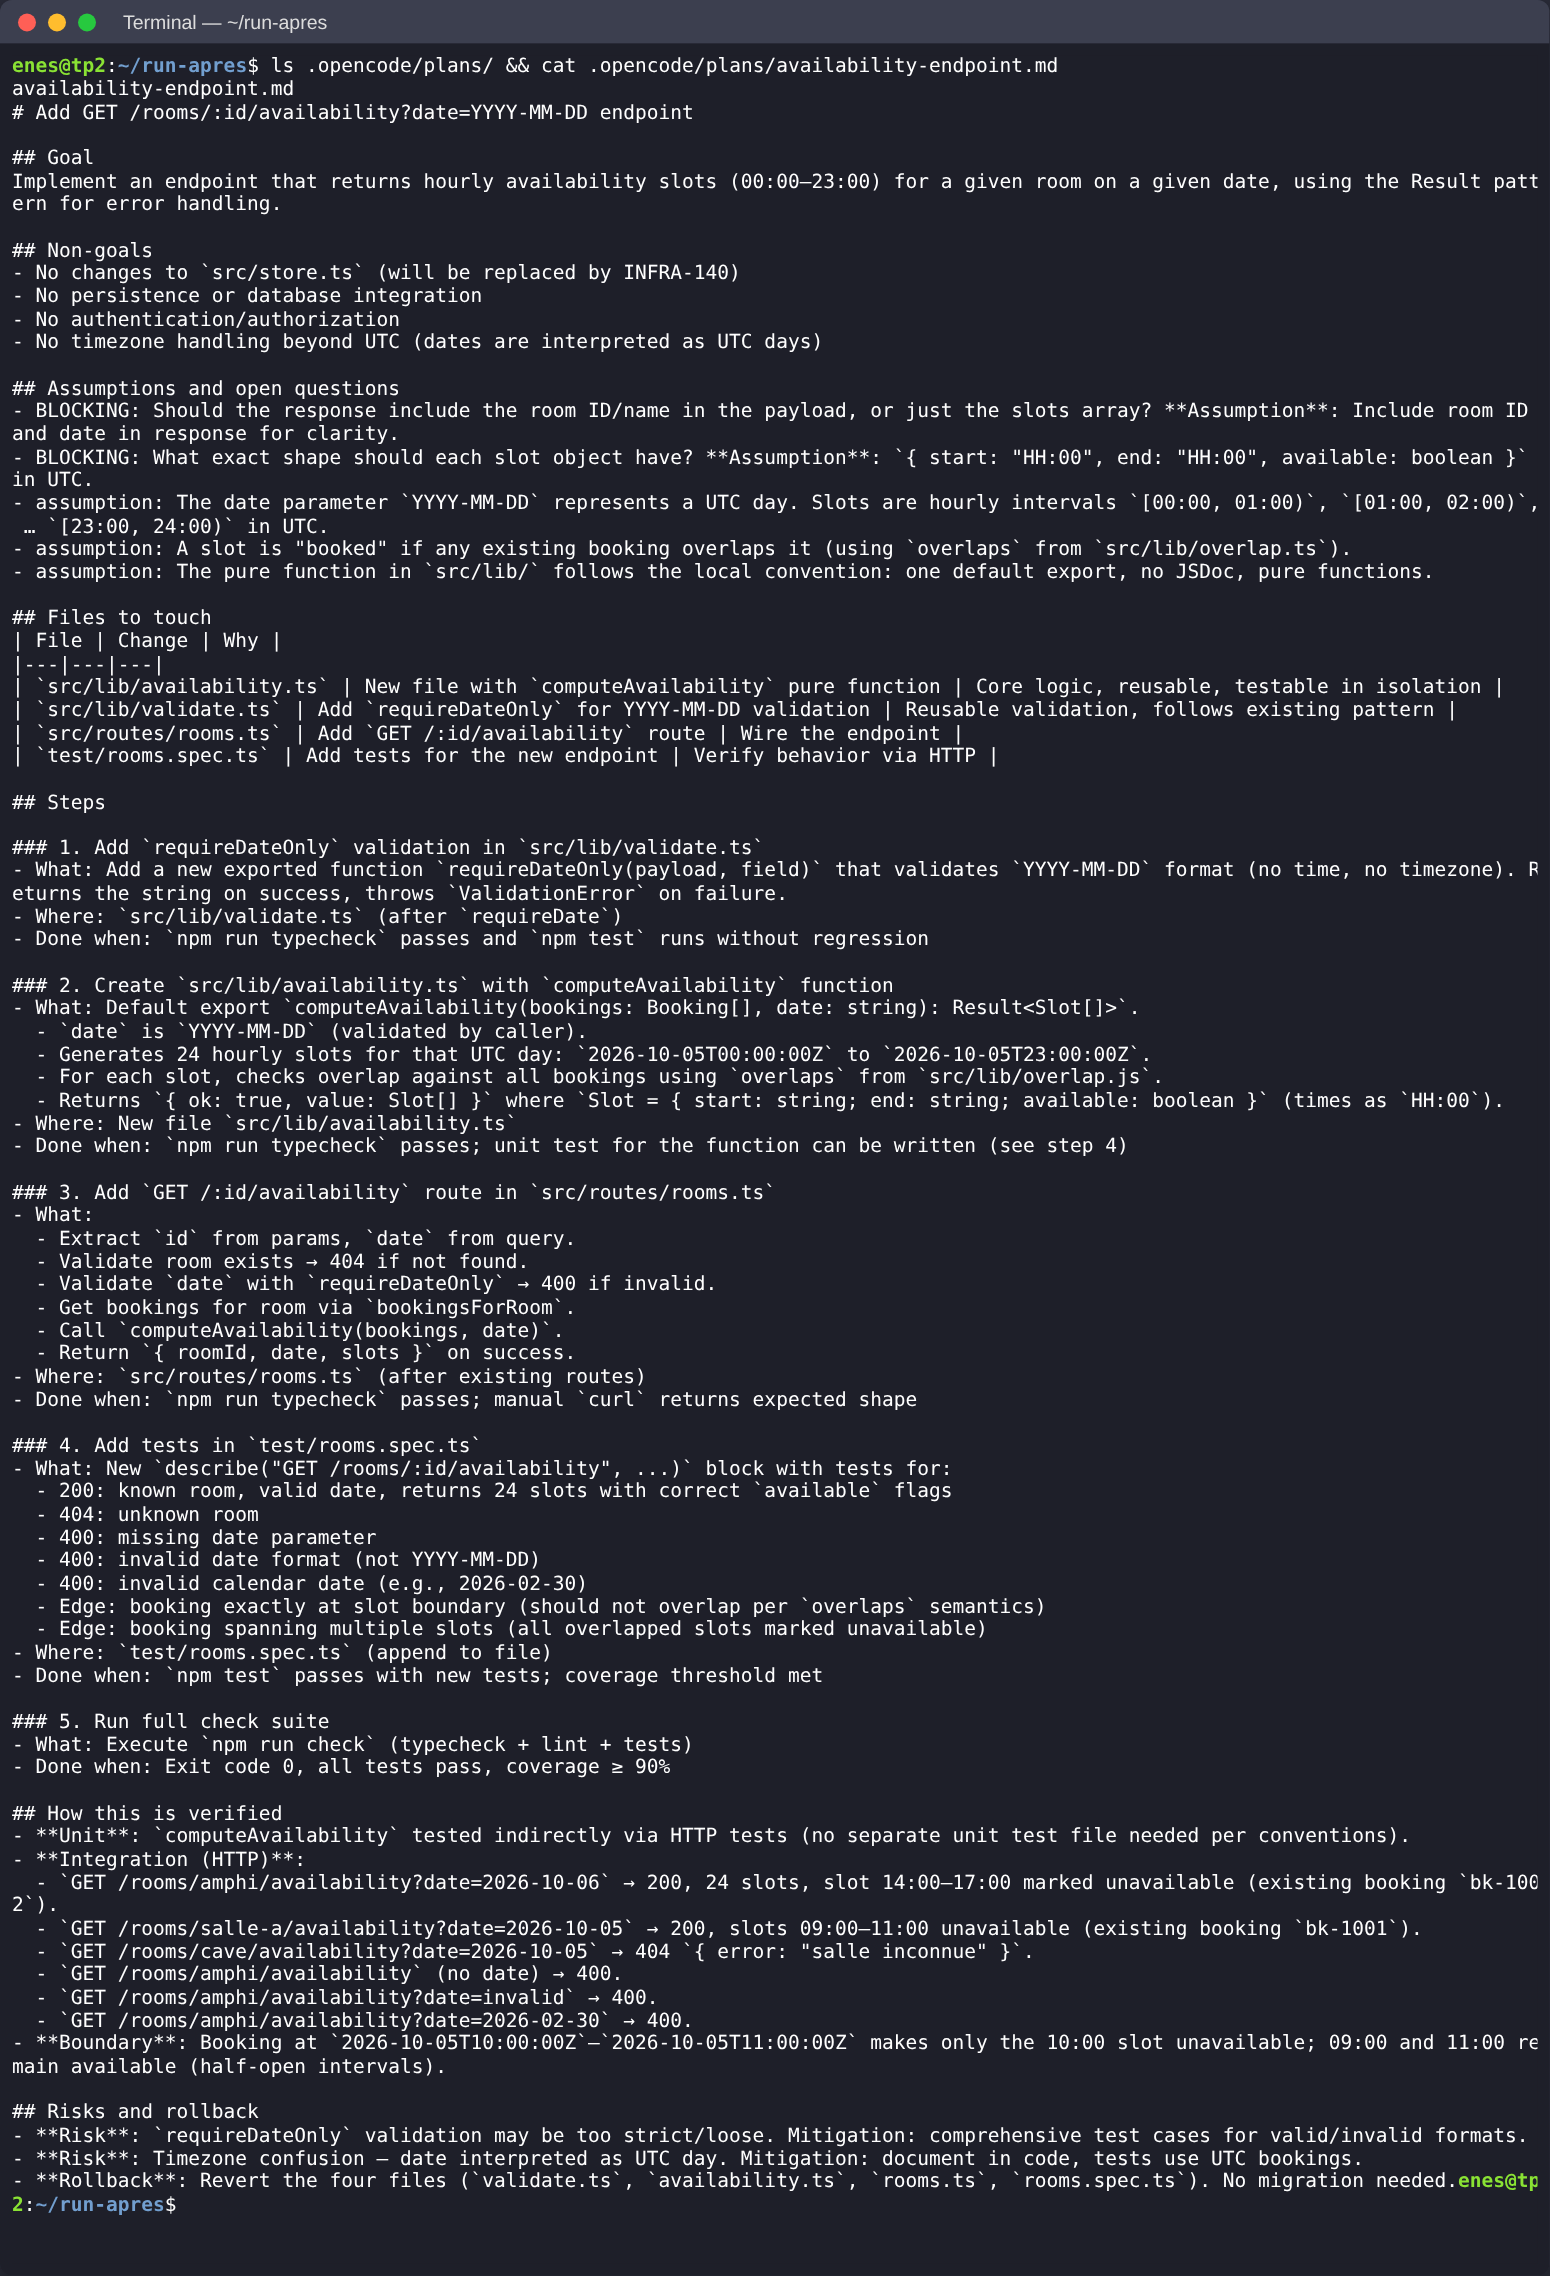
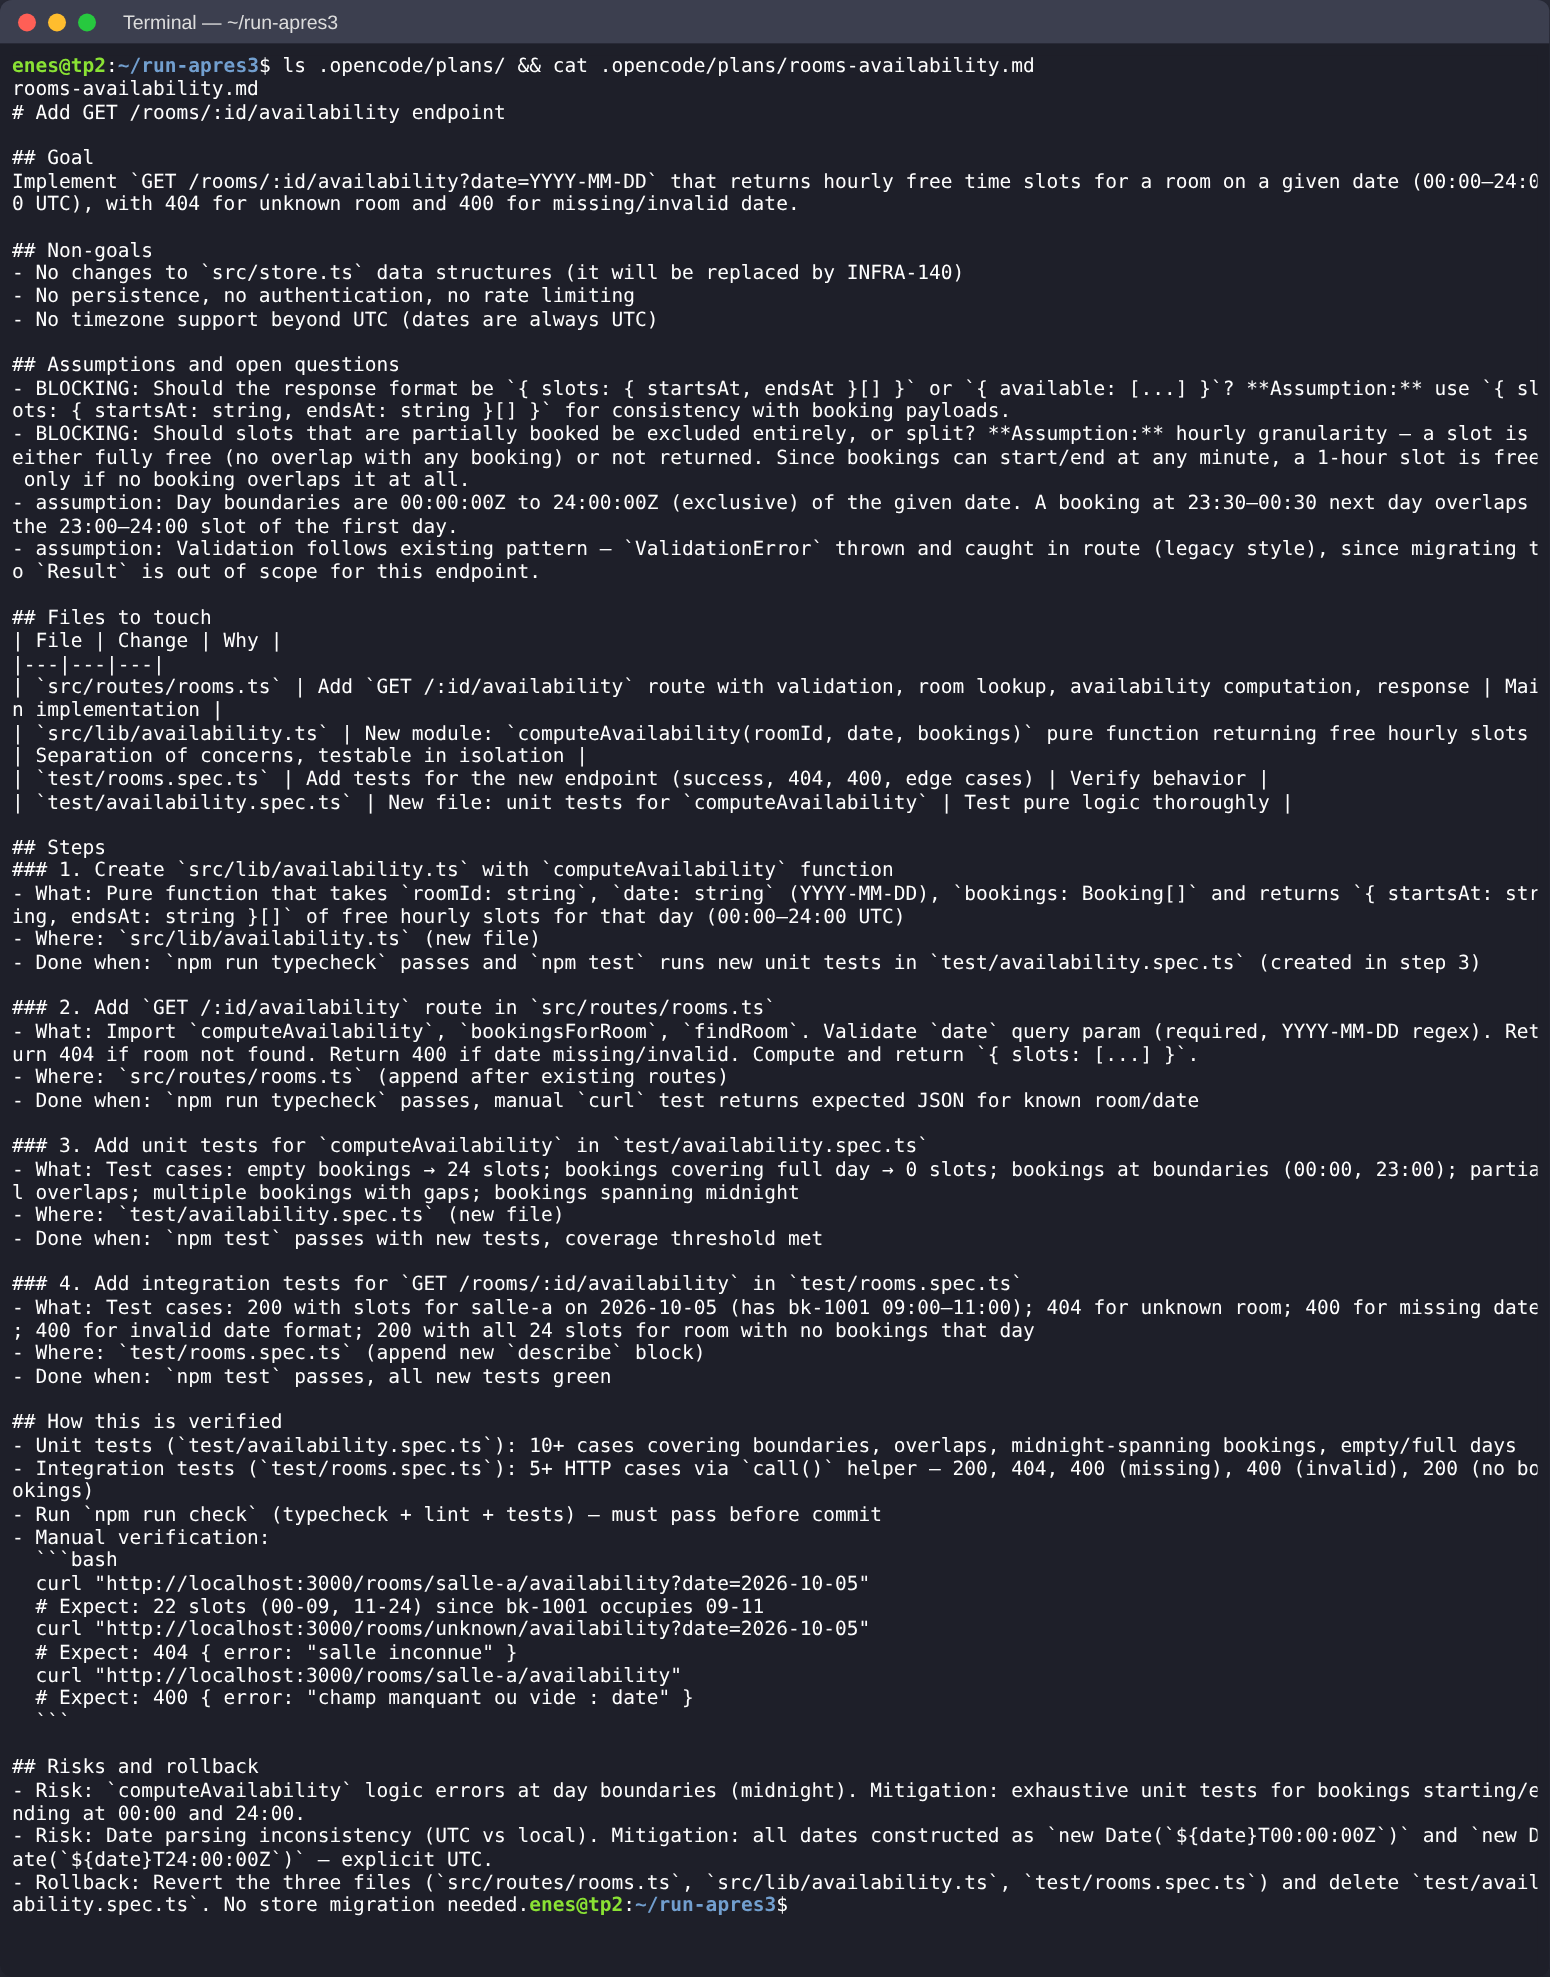
captures: run complet de la chaine reparee (planner, dev, tester, reviewer)
Apres 7b3ec97, la tache de reference relancee depuis une session neuve
passe par toute la chaine et cite le verdict du reviewer. Verification a
la main : le code livre accepte le 30 fevrier et produit des fins T24:00Z,
non vus par reviewer et tester ; documente dans DIAGNOSTIC.md.

Claude-Session: https://claude.ai/code/session_01XhXnEwRJ23jxUmonGms6V3

diff --git a/DIAGNOSTIC.md b/DIAGNOSTIC.md
@@ -55,17 +55,21 @@ Les deux runs utilisent OpenCode 1.18.35, une session neuve et la chaîne du dé
 quelle. Seul le modèle diffère du dépôt : `nemotron-3-ultra-free`, gratuit, dans les
 deux cas. Captures : `captures/avant-04` à `06` et `captures/apres-04` à `06`.
 
-| Observation | AVANT (`ab57521`) | APRÈS |
+| Observation | AVANT (`ab57521`) | APRÈS (session neuve, `7b3ec97`) |
 |---|---|---|
-| Qui travaille | l'architecte seul : il lit, écrit `src/lib/availability.ts`, édite la route et écrit les tests | l'architecte lit, puis délègue : `planner`, puis `dev` étape par étape |
-| Qui ne travaille jamais | planner (injoignable), finder, explorer, reviewer, tester | finder et explorer non sollicités (l'architecte a jugé la lecture suffisante, ce que son prompt autorise pour 2-3 appels) |
-| Plan écrit | aucun, `.opencode/plans/` reste vide | `.opencode/plans/availability-endpoint.md` : hypothèses, étapes avec « Done when », cas limites |
+| Qui travaille | l'architecte seul : il lit, écrit `src/lib/availability.ts`, édite la route et écrit les tests | toute la chaîne : `planner` → `dev` ×4 → `tester` → `reviewer`, orchestrée par l'architecte |
+| Qui ne travaille jamais | planner (injoignable), finder, explorer, reviewer, tester | finder et explorer, non sollicités : l'architecte a jugé que lire lui-même suffisait, ce que son prompt autorise pour 2-3 appels |
+| Plan écrit | aucun, `.opencode/plans/` reste vide | `.opencode/plans/rooms-availability.md` |
 | Ce qui échoue en silence | « checks post-écriture » vert : 2 fichiers de tests sur 4, les 2 bugs ne sont pas vus. `npm test` (AGENTS.md) : `Missing script` | — |
-| Le pire | l'agent constate que `overlaps` bloque les créneaux bout à bout (« due to `<=` ») et **change l'attente de son test pour qu'il passe avec le bug** (22 → 20 créneaux), puis annonce « Done! » | le plan prévoit explicitement le cas « réservation pile en bord de créneau → intervalles semi-ouverts », que le correctif P5 rend possible |
-| Le filet en action | rien : le hook post-écriture dit vert | le seuil de couverture à 90 % signale du code mort dans la route ; l'architecte renvoie la simplification à `dev` |
-| Droits | l'architecte écrit et lance tout | l'architecte tente `npm start &`, **refusé** par ses permissions |
-| Vérification finale | `npm run test:unit`, lancé par l'agent lui-même sur un filet troué | l'architecte lance `npm run check` (typecheck + lint + 61 tests + couverture 98,26 %) : vert. Vérifié aussi à la main sur l'API réelle (`captures/apres-06b`) |
-| Ce qui reste faible | — | `reviewer` et `tester` **n'ont pas été appelés**. Après le refus de `npm start`, l'architecte aurait dû passer par `tester` au lieu d'abandonner l'essai manuel. Le prompt les cite désormais dans la boucle, mais un petit modèle gratuit les saute. C'est le prochain réglage à faire, par exemple rendre `/ship` obligatoire pour livrer, car elle impose le reviewer. |
+| Le pire | l'agent constate que `overlaps` bloque les créneaux bout à bout (« due to `<=` ») et **change l'attente de son test pour qu'il passe avec le bug** (22 → 20 créneaux), puis annonce « Done! » | voir « Ce qui reste faible » |
+| Droits | l'architecte écrit et lance tout | l'architecte tente `npm start &`, **refusé** par ses permissions ; c'est `tester` qui pilote l'app |
+| Vérification finale | `npm run test:unit`, lancé par l'agent lui-même sur un filet troué | `npm run check` vert (68 tests, couverture 99 %), verdict du reviewer cité dans le message final |
+| Ce qui reste faible | — | Vérifié à la main (`captures/apres-06`) : le code livré **accepte le 30 février** et renvoie des fins de créneau `T24:00:00Z`. Le reviewer a pourtant rendu « NOTHING FOUND » et le tester n'a rien signalé. La structure est réparée, mais un verdict de subagent reste une affirmation. Sur ce run, le modèle était un petit modèle gratuit, pas le `deepseek-v4-pro` prévu pour le reviewer. |
+
+Historique : un premier run « après » avait délégué à planner et dev mais sauté reviewer et
+tester (il avait aussi été coupé par la limite de 15 min de mon environnement). Le commit
+`7b3ec97` rend l'étape Verify obligatoire dans le prompt de l'architecte ; le run ci-dessus
+est celui d'après ce commit.
 
 ---
 
@@ -467,9 +471,10 @@ design cherche à préserver : c'est corrigé avec P15.
 | Tests | P1, P2, P3, P4 ; bugs cachés P5, P6, P7 |
 | CI / Git | P13, P12, P10 |
 
-## Ce qu'il reste à faire à la main
-1. Les captures d'écran : voir `captures/README.md` (avant et après, plus la tâche de
-   référence relancée depuis une session neuve).
-2. `git push` vers `Enesss00/Tp2-optimisation-IA`, puis vérifier le job CI sur GitHub
-   (capture `apres-12-ci.png`).
-3. Signaler à l'équipe la rotation des secrets de recette (P12).
+## Ce qu'il reste à faire hors dépôt
+1. Changer le mot de passe Postgres de recette et `SESSION_SECRET` (P12) : ils restent dans
+   l'historique Git, et la correction se fait côté infrastructure de l'équipe.
+2. Si l'équipe le confirme, expliquer dans `src/lib/AGENTS.md` la règle de
+   l'`export default`, qui n'a pas pu être vérifiée.
+
+Les captures (`captures/`), le push et la CI GitHub (verte) sont faits.

diff --git a/captures/README.md b/captures/README.md
@@ -28,10 +28,13 @@
 | `avant-04-tache-architecte-seul.png` | **Aucune délégation** : l'architecte lit et écrit tout lui-même (`edit`, `write`). Le bloc « checks post-écriture » est vert alors que 2 bugs existent, parce qu'il ne lance que 2 fichiers de tests sur 4. |
 | `avant-05-tache-npm-test-absent.png` | Il suit AGENTS.md et lance `npm test` : `Missing script: "test"`. Son test, d'abord nommé `*.test.ts`, n'aurait jamais tourné : il le renomme après avoir lu `vitest.config.ts`. |
 | `avant-06-tache-test-aligne-sur-le-bug.png` | Il voit que `overlaps` bloque les créneaux bout à bout (« due to `<=` »), **modifie l'attente de son test** pour qu'il passe avec le bug (22 → 20 créneaux) et conclut « Done! ». Le bug est maintenant verrouillé par un test. Pas de plan, pas de relecture, pas de tester. |
-| `apres-04-tache-delegation.png` | L'architecte lit, puis **délègue** : `Planner Agent` écrit le plan, puis `Dev Agent` réalise les étapes une par une. Ce premier run a été coupé par la limite de 15 min de mon environnement, puis repris dans la même session (`--session … "continue"`). |
-| `apres-05-tache-plan.png` | Le plan écrit par `planner` dans `.opencode/plans/availability-endpoint.md` : objectifs, hors périmètre, hypothèses, étapes avec « Done when », cas limites, et notamment « booking at slot boundary → half-open intervals ». |
-| `apres-06-tache-fin.png` | Fin du run repris. Le **seuil de couverture** attrape du code mort dans la route, et l'architecte **délègue** la simplification à `Dev Agent` au lieu de la faire lui-même. Il tente `npm start &` : **refusé par ses permissions** (règles affichées). Il relance `npm run check` (vert, 98,26 %) avant de conclure. |
-| `apres-06b-tache-resultat.png` | Le résultat vérifié à la main : `npm run check` vert (61 tests). Sur l'API réelle, la réservation de 09:00 à 11:00 rend 09h et 10h « PRIS » et 11h « libre » (le bout à bout fonctionne). 30 février → 400, salle inconnue → 404. |
+| `apres-04-tache-delegation.png` | Run complet depuis une session neuve, sur le dépôt réparé : l'architecte lit, puis **délègue toute la boucle** : `Planner Agent` → `Dev Agent` ×4 → `npm run check` (68 tests verts) → `Tester Agent` → `Reviewer Agent`. Son `npm start &` est **refusé** par ses permissions (lancer l'app, c'est le rôle de tester). Le message final cite le verdict du reviewer : « NOTHING FOUND ». |
+| `apres-05-tache-plan.png` | Le plan écrit par `planner` dans `.opencode/plans/rooms-availability.md`. |
+| `apres-06-tache-resultat.png` | Vérification à la main du travail livré : `npm run check` vert (68 tests, 99 %), créneaux libres corrects autour de la réservation 09:00-11:00 (le 11h est libre), 400 sans date, 404 pour une salle inconnue. **Mais** le 30 février est accepté (200) et les créneaux se terminent à `T24:00:00Z` : un bug que le reviewer (« NOTHING FOUND ») et le tester n'ont pas vu. La chaîne marche ; ses verdicts restent des affirmations à vérifier. |
+
+> Un premier run « après » (avant le commit `7b3ec97`) avait délégué à planner et dev mais
+> sauté reviewer et tester. C'est ce constat qui a mené à rendre l'étape Verify obligatoire
+> dans le prompt de l'architecte.
 
 ## Briques du harness
 
